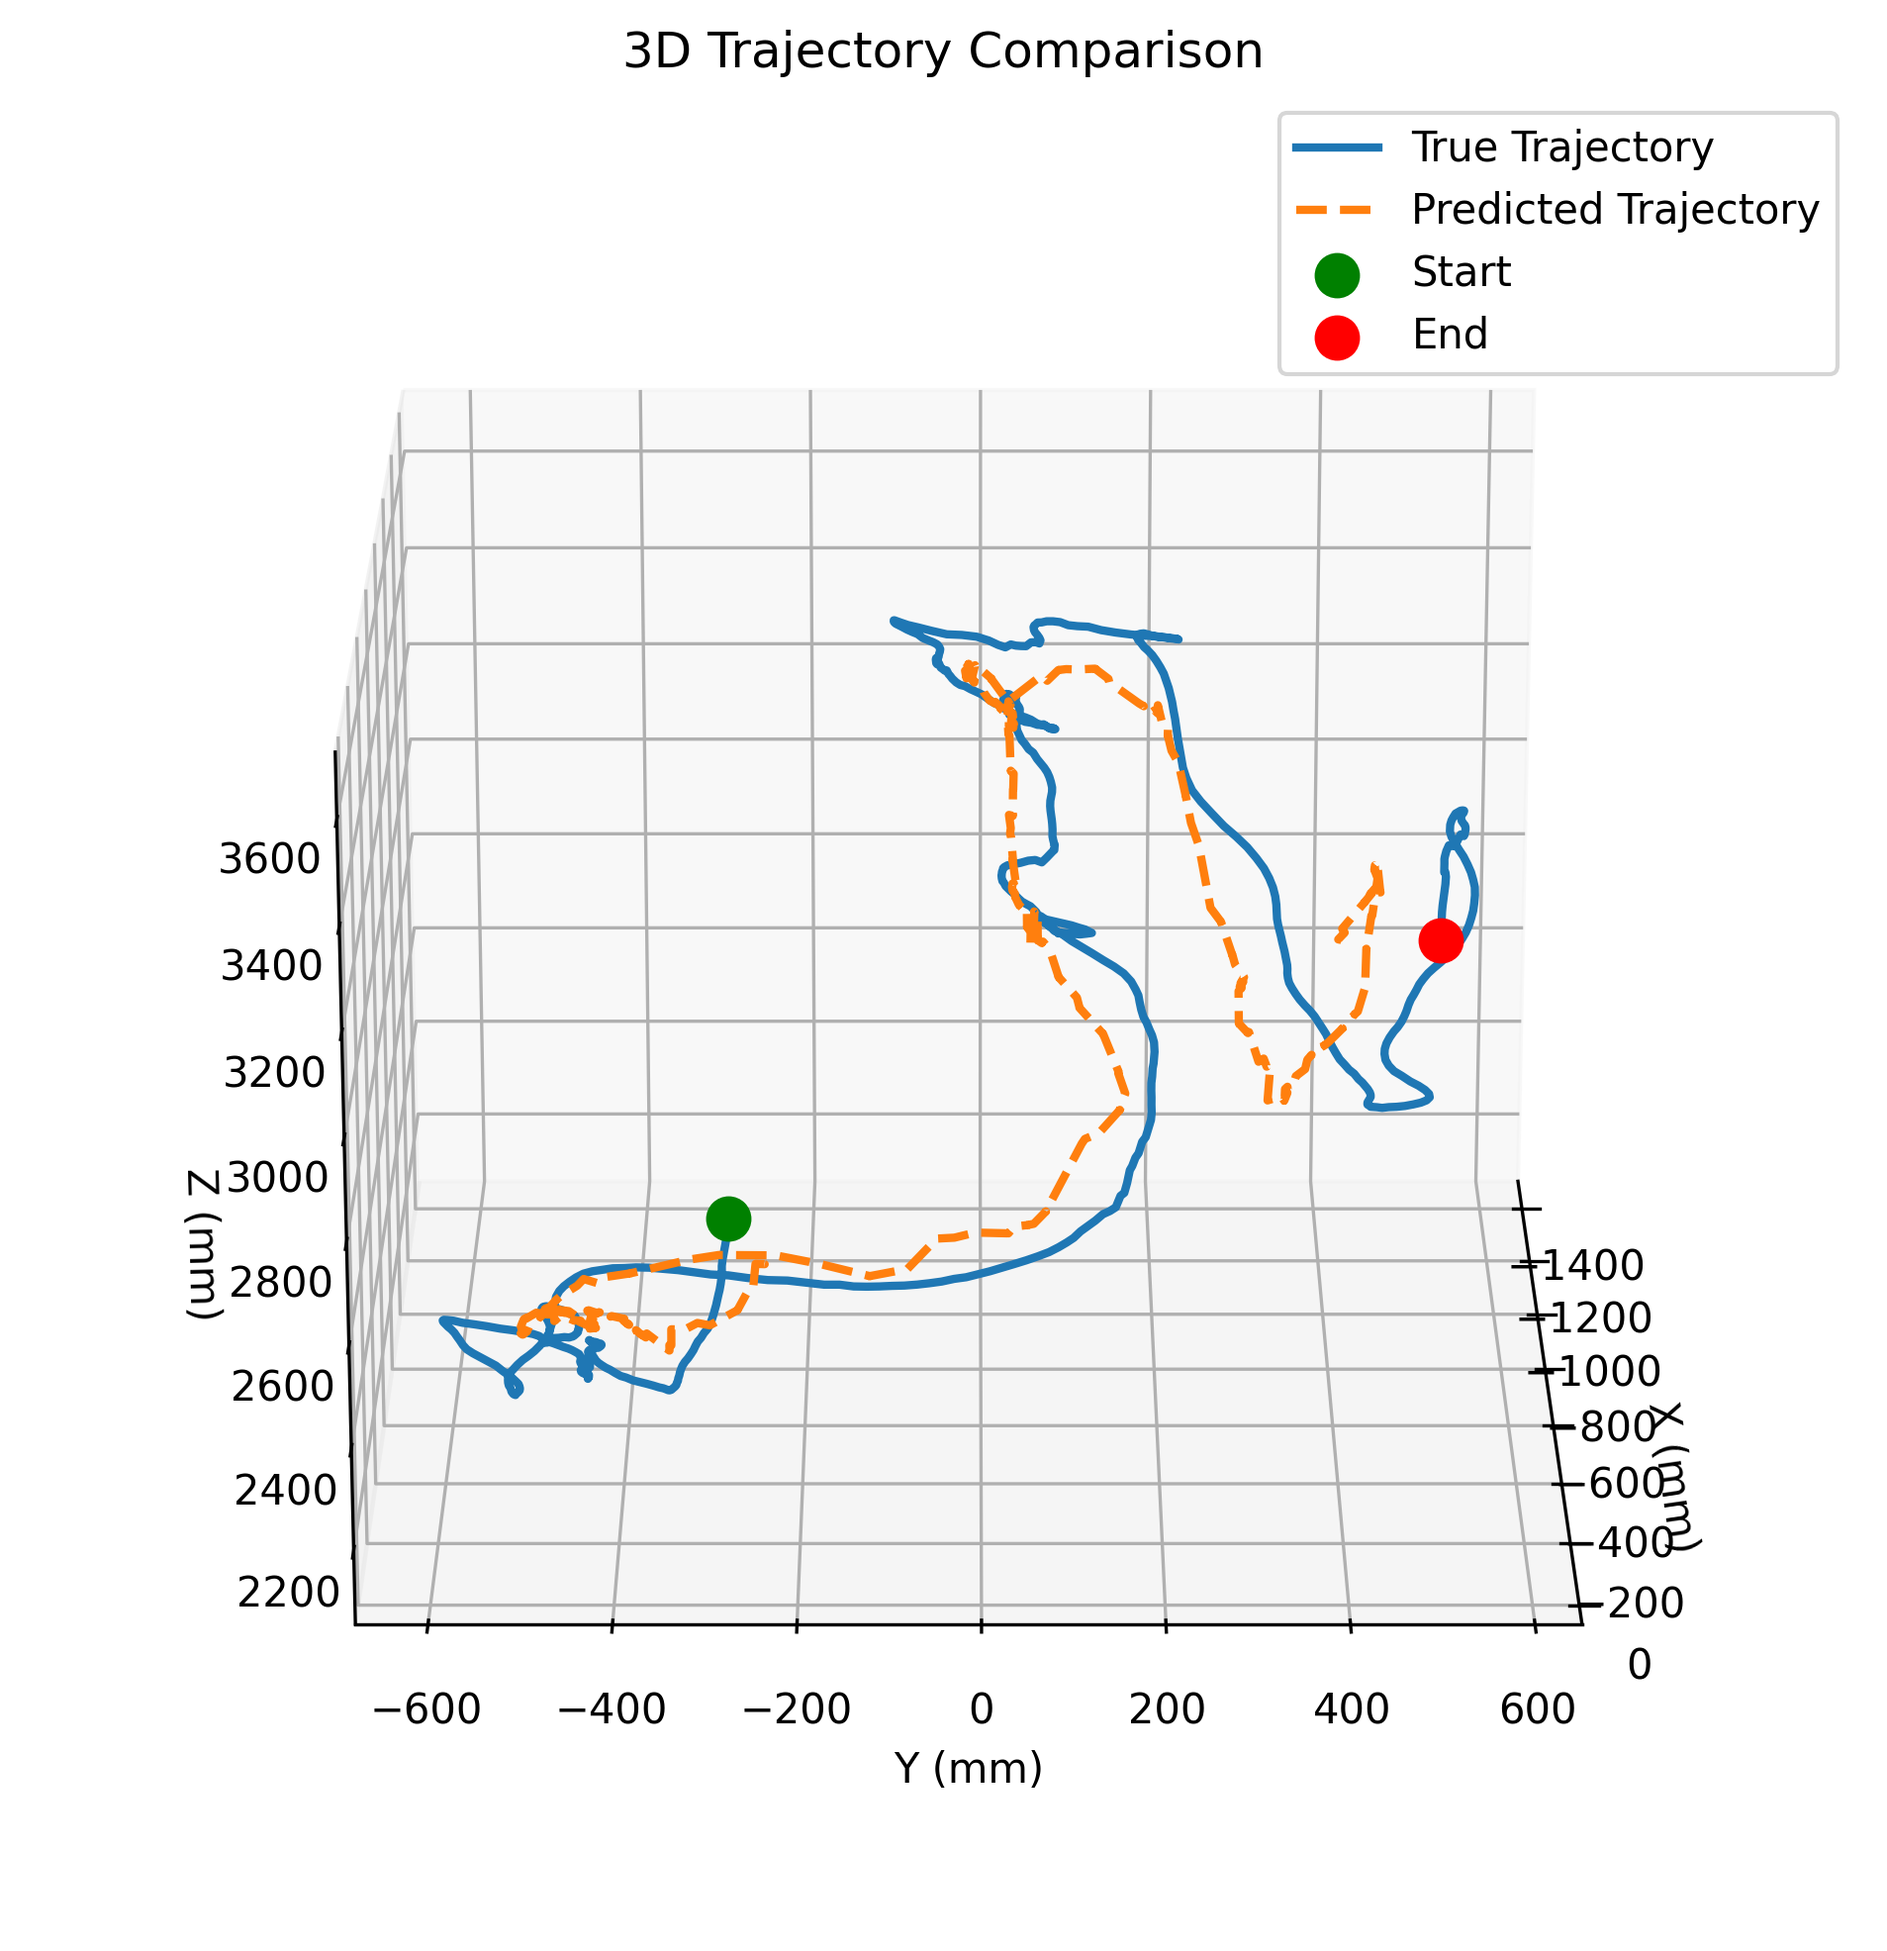
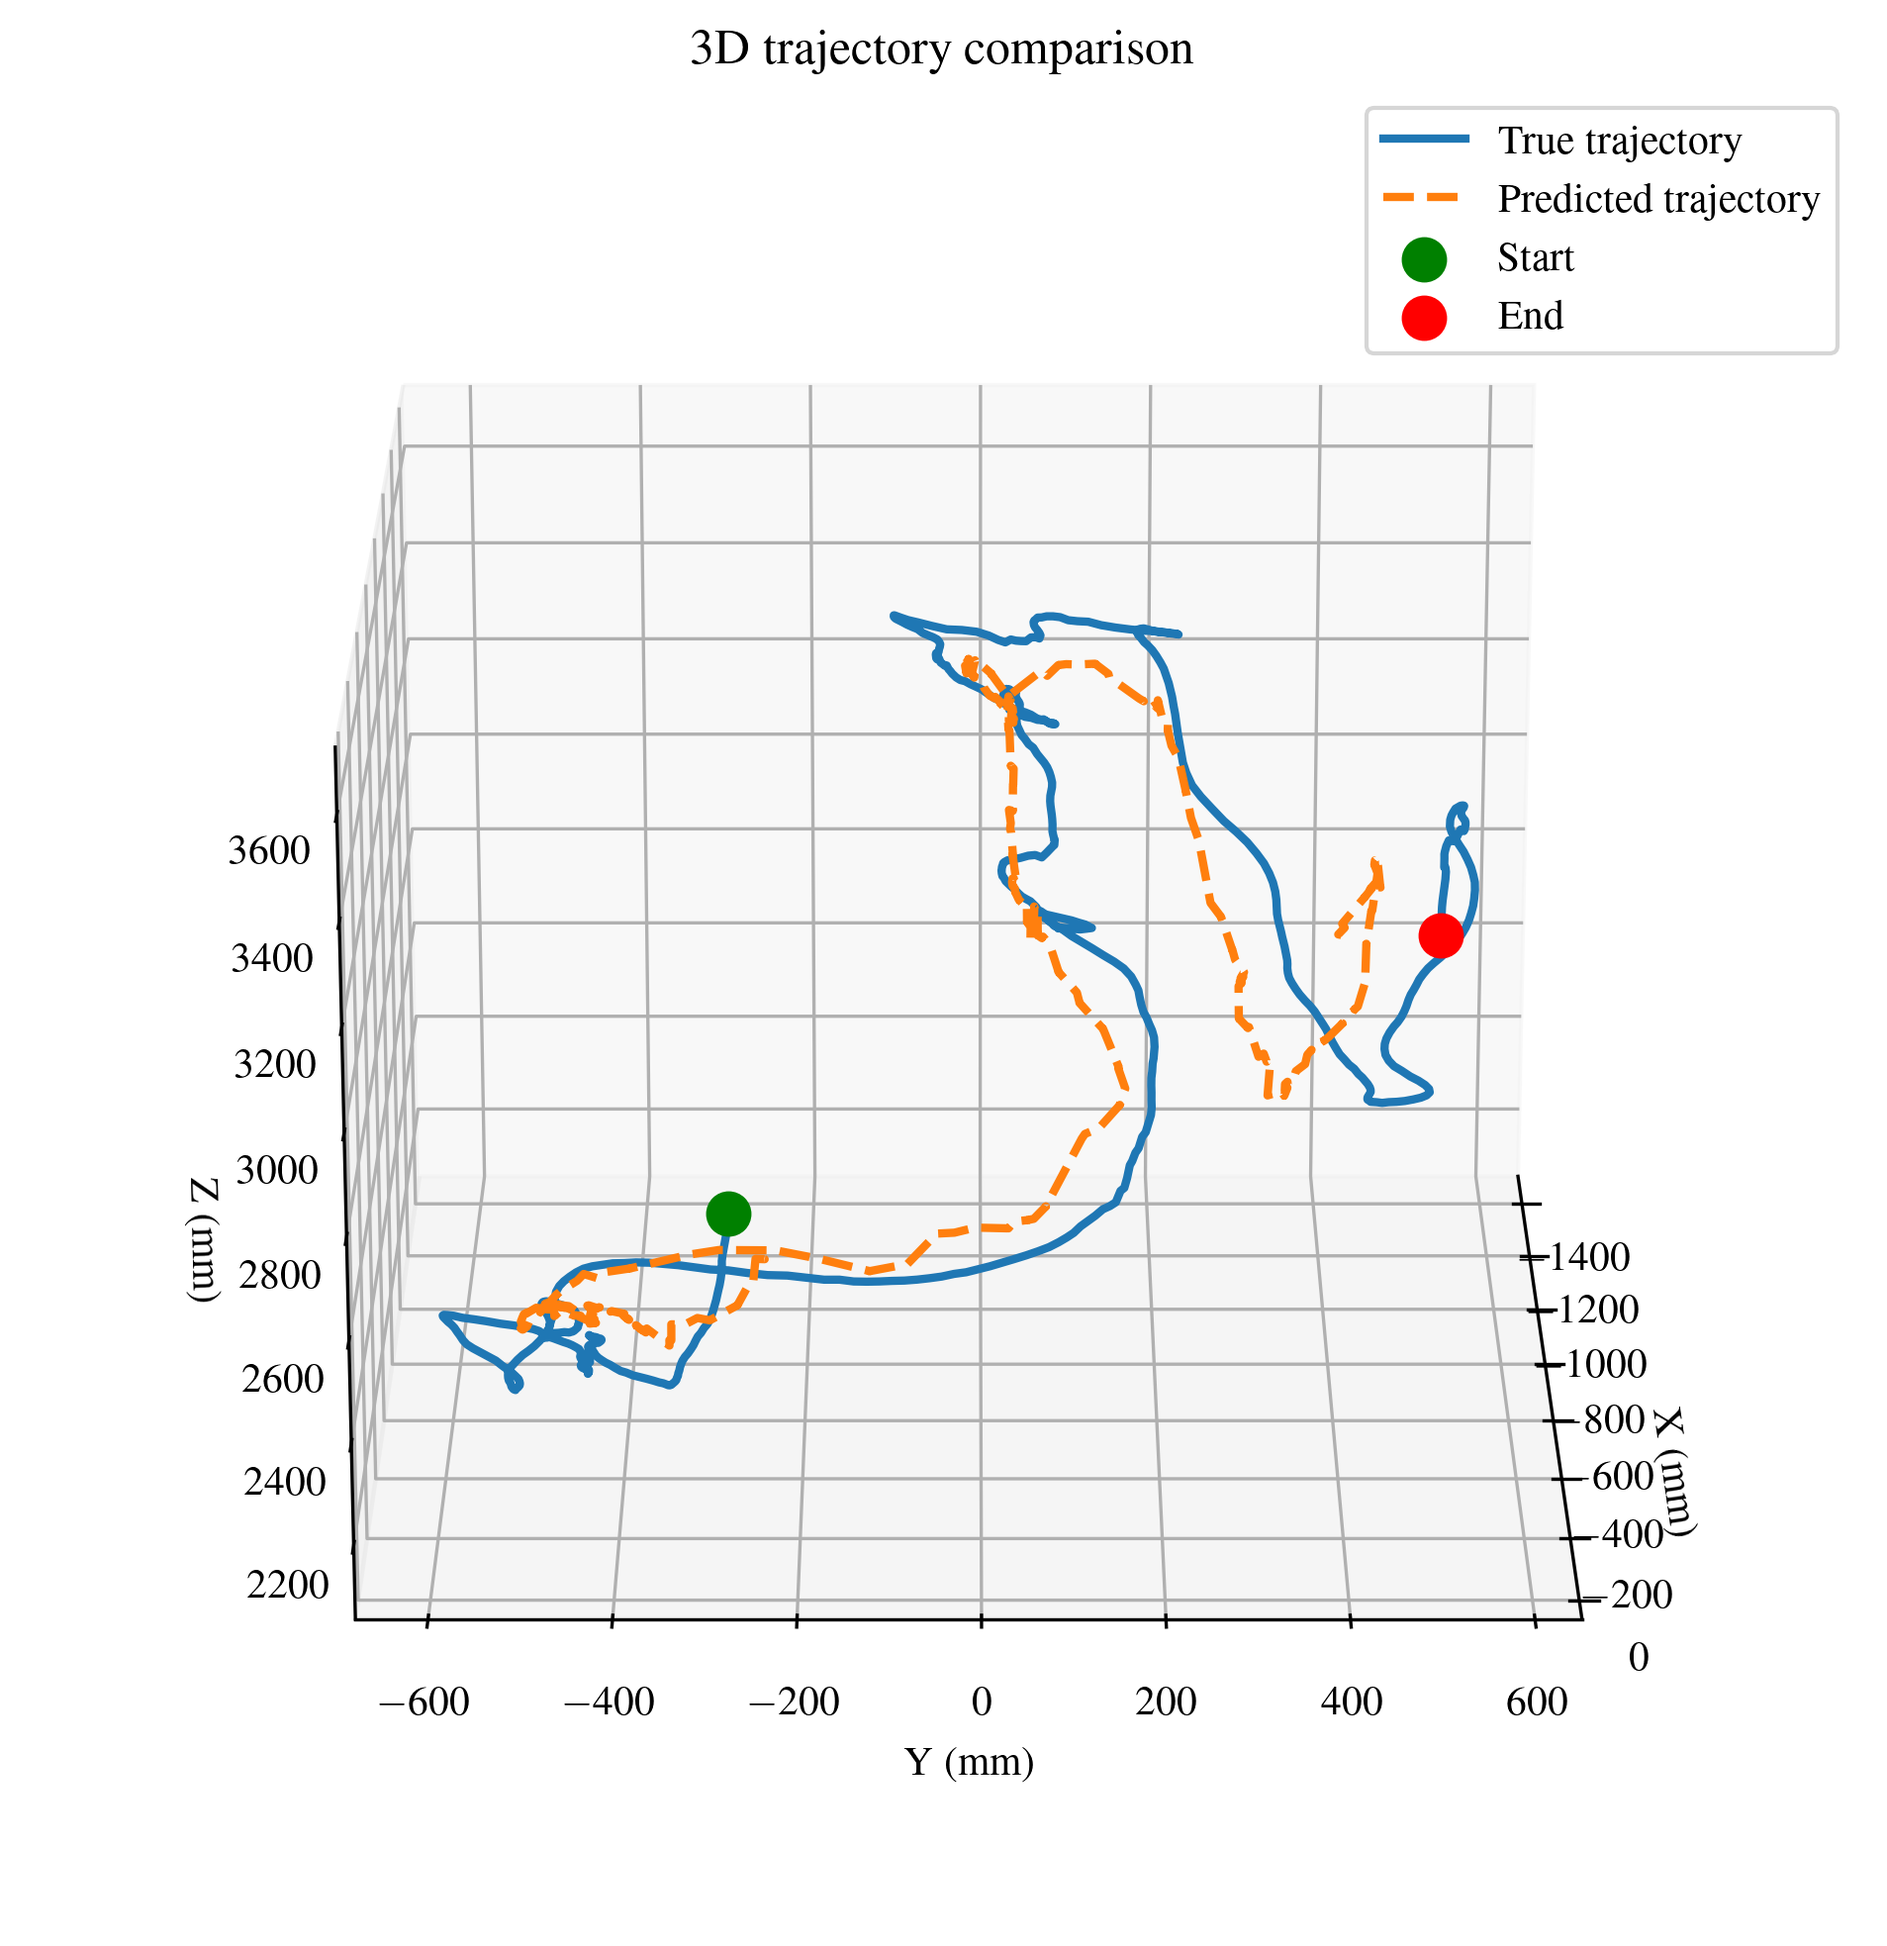
updated plots

diff --git a/src/plotting/plot_results.py b/src/plotting/plot_results.py
@@ -3,229 +3,162 @@ This script creates comprehensive visualizations of the ML model's performance i
 fisheye camera coordinates to 3D OptiTrack coordinates. It generates multiple types of plots
 to analyze prediction accuracy, error distributions, and trajectory comparisons.
 
-The script creates the following visualizations:
-1. Scatter plots: Compare predicted vs true values for each coordinate (X, Y, Z)
-2. 3D trajectory: Shows the complete path in 3D space from multiple viewing angles
-3. Error over time: Tracks prediction accuracy throughout the sequence
-4. Error distribution: Shows error patterns for each coordinate using violin plots
-
-All plots are saved to the data/plots/ directory with 300 DPI resolution.
-
 Author: Evan Phillips
-Date: 2024
+Date: 2025
 """
 
 import pandas as pd
 import numpy as np
 import matplotlib.pyplot as plt
+import matplotlib as mpl
 from mpl_toolkits.mplot3d import Axes3D
 from pathlib import Path
 import seaborn as sns
 
+# ====== Lab Style Guide Compliance: Plot Settings ======
+plt.rcParams.update({
+    'text.usetex': True,
+    'font.family': 'serif',
+    'font.serif': [
+        'Times New Roman', 'Times', 'DejaVu Serif', 'Bitstream Vera Serif',
+        'Computer Modern Roman', 'New Century Schoolbook',
+        'Century Schoolbook L', 'Utopia', 'ITC Bookman', 'Bookman',
+        'Nimbus Roman No9 L', 'Palatino', 'Charter', 'serif'
+    ],
+    'font.size': 10,
+    'mathtext.rm': 'serif',
+    'mathtext.fontset': 'custom',
+    'image.cmap': 'viridis'
+})
+sns.set_palette("tab10")  # For categorical variables like coordinates
+plt.close('all')
+# ========================================================
+
 def load_predictions():
-    """
-    Load the ML model predictions from the Excel file.
-    
-    Returns:
-        pandas.DataFrame: DataFrame containing predicted and true coordinates
-    """
     data_path = Path(__file__).parents[2] / 'data' / 'predictions' / 'mlp_predictions.xlsx'
     return pd.read_excel(data_path)
 
 def create_scatter_plots(df, save_dir):
-    """
-    Create scatter plots comparing predicted vs true values for each coordinate.
-    
-    For each coordinate (X, Y, Z):
-    - Plots predicted values against true values
-    - Adds a perfect prediction line (y=x)
-    - Calculates and displays MAE and RMSE metrics
-    - Includes grid and legend for better readability
-    
-    Args:
-        df (pandas.DataFrame): DataFrame containing predictions and true values
-        save_dir (pathlib.Path): Directory to save the plot
-    """
     coords = ['x', 'y', 'z']
     fig, axes = plt.subplots(1, 3, figsize=(18, 6))
-    
+
     for i, coord in enumerate(coords):
         true_vals = df[f'{coord}_opt']
         pred_vals = df[f'pred_{coord}']
-        
-        # Calculate error metrics
+
         mae = np.mean(np.abs(true_vals - pred_vals))
         mse = np.mean(np.square(true_vals - pred_vals))
         rmse = np.sqrt(mse)
-        
-        # Create scatter plot
-        axes[i].scatter(true_vals, pred_vals, alpha=0.5)
-        
-        # Add perfect prediction line
+
+        axes[i].scatter(true_vals, pred_vals, alpha=0.5, label='Prediction')
+
         min_val = min(true_vals.min(), pred_vals.min())
         max_val = max(true_vals.max(), pred_vals.max())
         axes[i].plot([min_val, max_val], [min_val, max_val], 'r--', label='Perfect Prediction')
-        
-        axes[i].set_xlabel(f'True {coord.upper()} (mm)')
-        axes[i].set_ylabel(f'Predicted {coord.upper()} (mm)')
-        axes[i].set_title(f'{coord.upper()} Coordinate\nMAE: {mae:.2f}mm, RMSE: {rmse:.2f}mm')
+
+        axes[i].set_xlabel(f'True {coord.upper()}~(mm)')
+        axes[i].set_ylabel(f'Predicted {coord.upper()}~(mm)')
+        axes[i].set_title(f'{coord.upper()} coordinate: MAE = {mae:.2f}~mm, RMSE = {rmse:.2f}~mm')
         axes[i].grid(True)
         axes[i].legend()
-    
+
     plt.tight_layout()
     plt.savefig(save_dir / 'scatter_plots.png', dpi=300, bbox_inches='tight')
     plt.close()
 
 def create_3d_trajectory_plot(df, save_dir):
-    """
-    Create 3D visualization of predicted and true trajectories.
-    
-    Features:
-    - Plots both true and predicted paths in 3D space
-    - Marks start and end points for orientation
-    - Generates views from multiple angles (every 45 degrees)
-    - Saves both static view and multiple angle views
-    
-    Args:
-        df (pandas.DataFrame): DataFrame containing trajectory coordinates
-        save_dir (pathlib.Path): Directory to save the plots
-    """
     fig = plt.figure(figsize=(12, 8))
     ax = fig.add_subplot(111, projection='3d')
-    
-    # Plot true trajectory
-    ax.plot(df['x_opt'], df['y_opt'], df['z_opt'], 
-            label='True Trajectory', linewidth=2)
-    
-    # Plot predicted trajectory
-    ax.plot(df['pred_x'], df['pred_y'], df['pred_z'], 
-            label='Predicted Trajectory', linewidth=2, linestyle='--')
-    
-    # Add points to show direction
-    ax.scatter(df['x_opt'].iloc[0], df['y_opt'].iloc[0], df['z_opt'].iloc[0], 
+
+    ax.plot(df['x_opt'], df['y_opt'], df['z_opt'],
+            label='True trajectory', linewidth=2)
+    ax.plot(df['pred_x'], df['pred_y'], df['pred_z'],
+            label='Predicted trajectory', linewidth=2, linestyle='--')
+
+    ax.scatter(df['x_opt'].iloc[0], df['y_opt'].iloc[0], df['z_opt'].iloc[0],
                color='green', s=100, label='Start')
-    ax.scatter(df['x_opt'].iloc[-1], df['y_opt'].iloc[-1], df['z_opt'].iloc[-1], 
+    ax.scatter(df['x_opt'].iloc[-1], df['y_opt'].iloc[-1], df['z_opt'].iloc[-1],
                color='red', s=100, label='End')
-    
-    ax.set_xlabel('X (mm)')
-    ax.set_ylabel('Y (mm)')
-    ax.set_zlabel('Z (mm)')
-    ax.set_title('3D Trajectory Comparison')
+
+    ax.set_xlabel('X~(mm)')
+    ax.set_ylabel('Y~(mm)')
+    ax.set_zlabel('Z~(mm)')
+    ax.set_title('3D trajectory comparison')
     ax.legend()
-    
-    # Save static view
+
     plt.savefig(save_dir / '3d_trajectory.png', dpi=300, bbox_inches='tight')
-    
-    # Create multiple views
+
     for angle in range(0, 360, 45):
         ax.view_init(elev=20, azim=angle)
         plt.savefig(save_dir / f'3d_trajectory_angle_{angle}.png', dpi=300, bbox_inches='tight')
-    
+
     plt.close()
 
 def create_error_over_time_plot(df, save_dir):
-    """
-    Create plot showing how prediction errors vary over time.
-    
-    Features:
-    - Plots absolute error for each coordinate
-    - Shows temporal patterns in prediction accuracy
-    - Helps identify any systematic timing-related issues
-    
-    Args:
-        df (pandas.DataFrame): DataFrame containing predictions and timestamps
-        save_dir (pathlib.Path): Directory to save the plot
-    """
     coords = ['x', 'y', 'z']
     errors = pd.DataFrame()
-    
-    # Calculate absolute errors for each coordinate
+
     for coord in coords:
         errors[coord] = np.abs(df[f'{coord}_opt'] - df[f'pred_{coord}'])
-    
-    # Create plot
+
     plt.figure(figsize=(12, 6))
     for coord in coords:
-        plt.plot(df['time'], errors[coord], label=f'{coord.upper()} Error')
-    
-    plt.xlabel('Time (s)')
-    plt.ylabel('Absolute Error (mm)')
-    plt.title('Prediction Error Over Time')
+        plt.plot(df['time'], errors[coord], label=f'{coord.upper()} error')
+
+    plt.xlabel('Time~(s)')
+    plt.ylabel('Absolute error~(mm)')
+    plt.title('Prediction error over time')
     plt.grid(True)
     plt.legend()
-    
+
     plt.savefig(save_dir / 'error_over_time.png', dpi=300, bbox_inches='tight')
     plt.close()
 
 def create_error_distribution_plot(df, save_dir):
-    """
-    Create violin plots showing the distribution of errors for each coordinate.
-    
-    Features:
-    - Shows full error distribution shape using violin plots
-    - Helps identify coordinate-specific error patterns
-    - Reveals potential biases or asymmetries in predictions
-    
-    Args:
-        df (pandas.DataFrame): DataFrame containing coordinate predictions
-        save_dir (pathlib.Path): Directory to save the plot
-    """
     coords = ['x', 'y', 'z']
     errors = []
-    
-    # Calculate errors and prepare data for violin plot
+
     for coord in coords:
         error = np.abs(df[f'{coord}_opt'] - df[f'pred_{coord}'])
         errors.extend([(coord.upper(), e) for e in error])
-    
+
     error_df = pd.DataFrame(errors, columns=['Coordinate', 'Absolute Error'])
-    
-    # Create violin plot
+
     plt.figure(figsize=(10, 6))
     sns.violinplot(data=error_df, x='Coordinate', y='Absolute Error')
-    plt.title('Error Distribution by Coordinate')
-    plt.ylabel('Absolute Error (mm)')
+    plt.title('Error distribution by coordinate')
+    plt.ylabel('Absolute error~(mm)')
     plt.grid(True)
-    
+
     plt.savefig(save_dir / 'error_distribution.png', dpi=300, bbox_inches='tight')
     plt.close()
 
 def main():
-    """
-    Main execution function that creates all visualization plots.
-    
-    Workflow:
-    1. Loads prediction data
-    2. Creates output directory if needed
-    3. Generates all visualization plots
-    4. Prints summary of created plots
-    """
     print("Loading predictions...")
     df = load_predictions()
-    
-    # Create plots directory if it doesn't exist
+
     plots_dir = Path(__file__).parents[2] / 'data' / 'plots'
     plots_dir.mkdir(exist_ok=True)
-    
+
     print("Creating scatter plots...")
     create_scatter_plots(df, plots_dir)
-    
+
     print("Creating 3D trajectory plot...")
     create_3d_trajectory_plot(df, plots_dir)
-    
+
     print("Creating error over time plot...")
     create_error_over_time_plot(df, plots_dir)
-    
+
     print("Creating error distribution plot...")
     create_error_distribution_plot(df, plots_dir)
-    
+
     print(f"\nAll plots have been saved to {plots_dir}")
     print("\nPlot descriptions:")
-    print("1. scatter_plots.png: Shows predicted vs true values for each coordinate")
-    print("2. 3d_trajectory.png: Shows the complete 3D trajectory comparison")
-    print("3. 3d_trajectory_angle_*.png: Multiple views of the 3D trajectory")
-    print("4. error_over_time.png: Shows how prediction error varies over time")
-    print("5. error_distribution.png: Shows the distribution of errors for each coordinate")
+    print("1. scatter_plots.png: Predicted vs true values for each coordinate")
+    print("2. 3d_trajectory.png: 3D trajectory comparison (true vs predicted)")
+    print("3. 3d_trajectory_angle_*.png: Multi-angle views of trajectory")
+    print("4. error_over_time.png: Error variation across time")
+    print("5. error_distribution.png: Error distribution across coordinates")
 
 if __name__ == "__main__":
     main()
